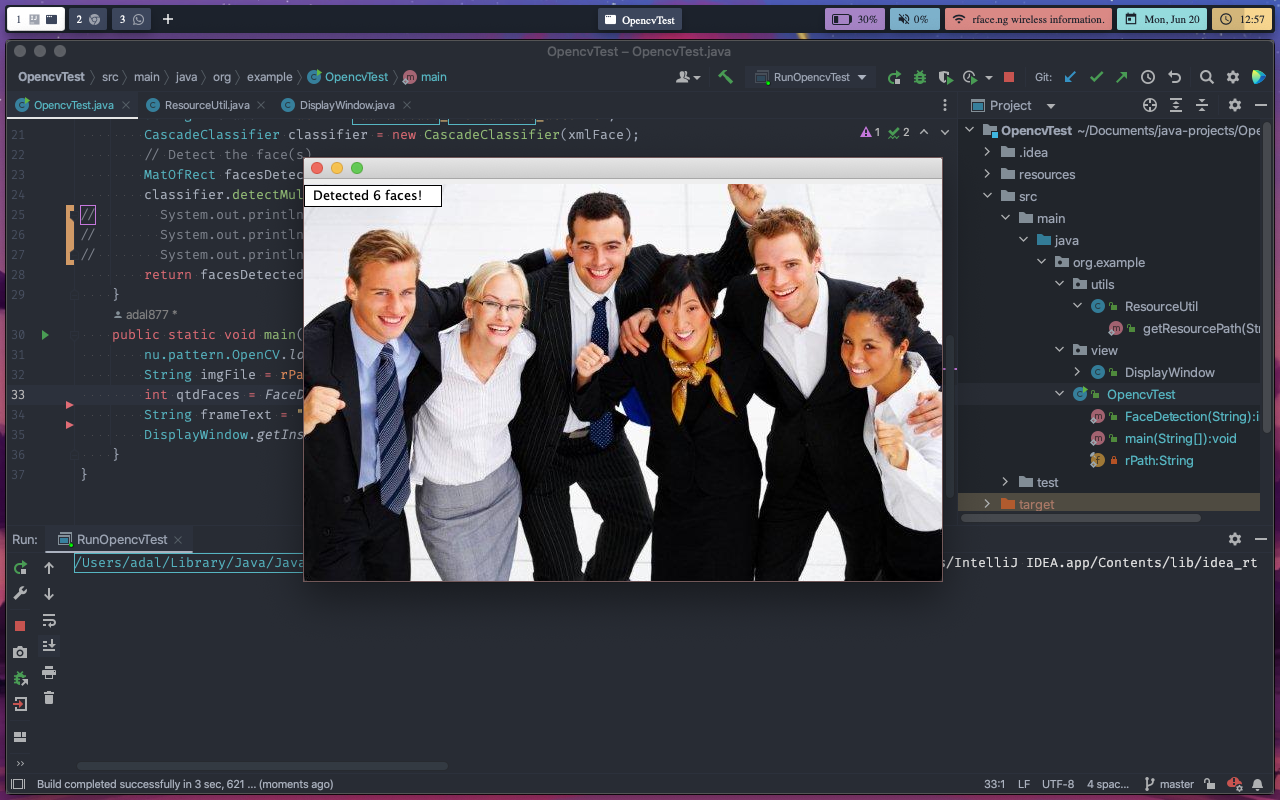
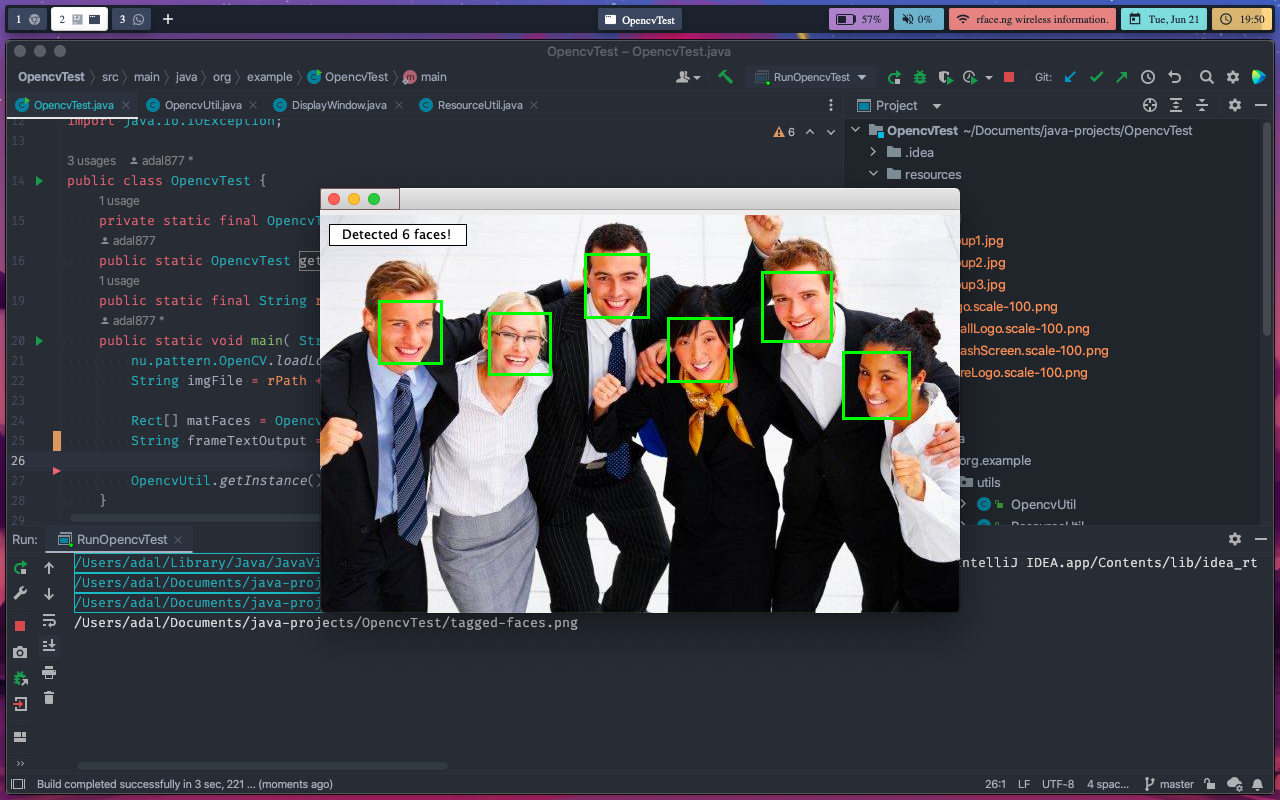
Removed some old stuffs and updated the example outuput image.

diff --git a/src/main/java/org/example/OpencvTest.java b/src/main/java/org/example/OpencvTest.java
@@ -22,9 +22,8 @@ public class OpencvTest {
         String imgFile = rPath +  "group1.jpg";
 
         Rect[] matFaces = OpencvUtil.getInstance().FaceDetection(imgFile);
-//        String frameTextOutput = "Detected " + matFaces.length + " faces!";
+        String frameTextOutput = "Detected " + matFaces.length + " faces!";
 
-        String frameTextOutput = "Detected " + matFaces.length + " idiots on this image";
         OpencvUtil.getInstance().DrawRectOnFaces(matFaces, imgFile, frameTextOutput);
     }
 }
